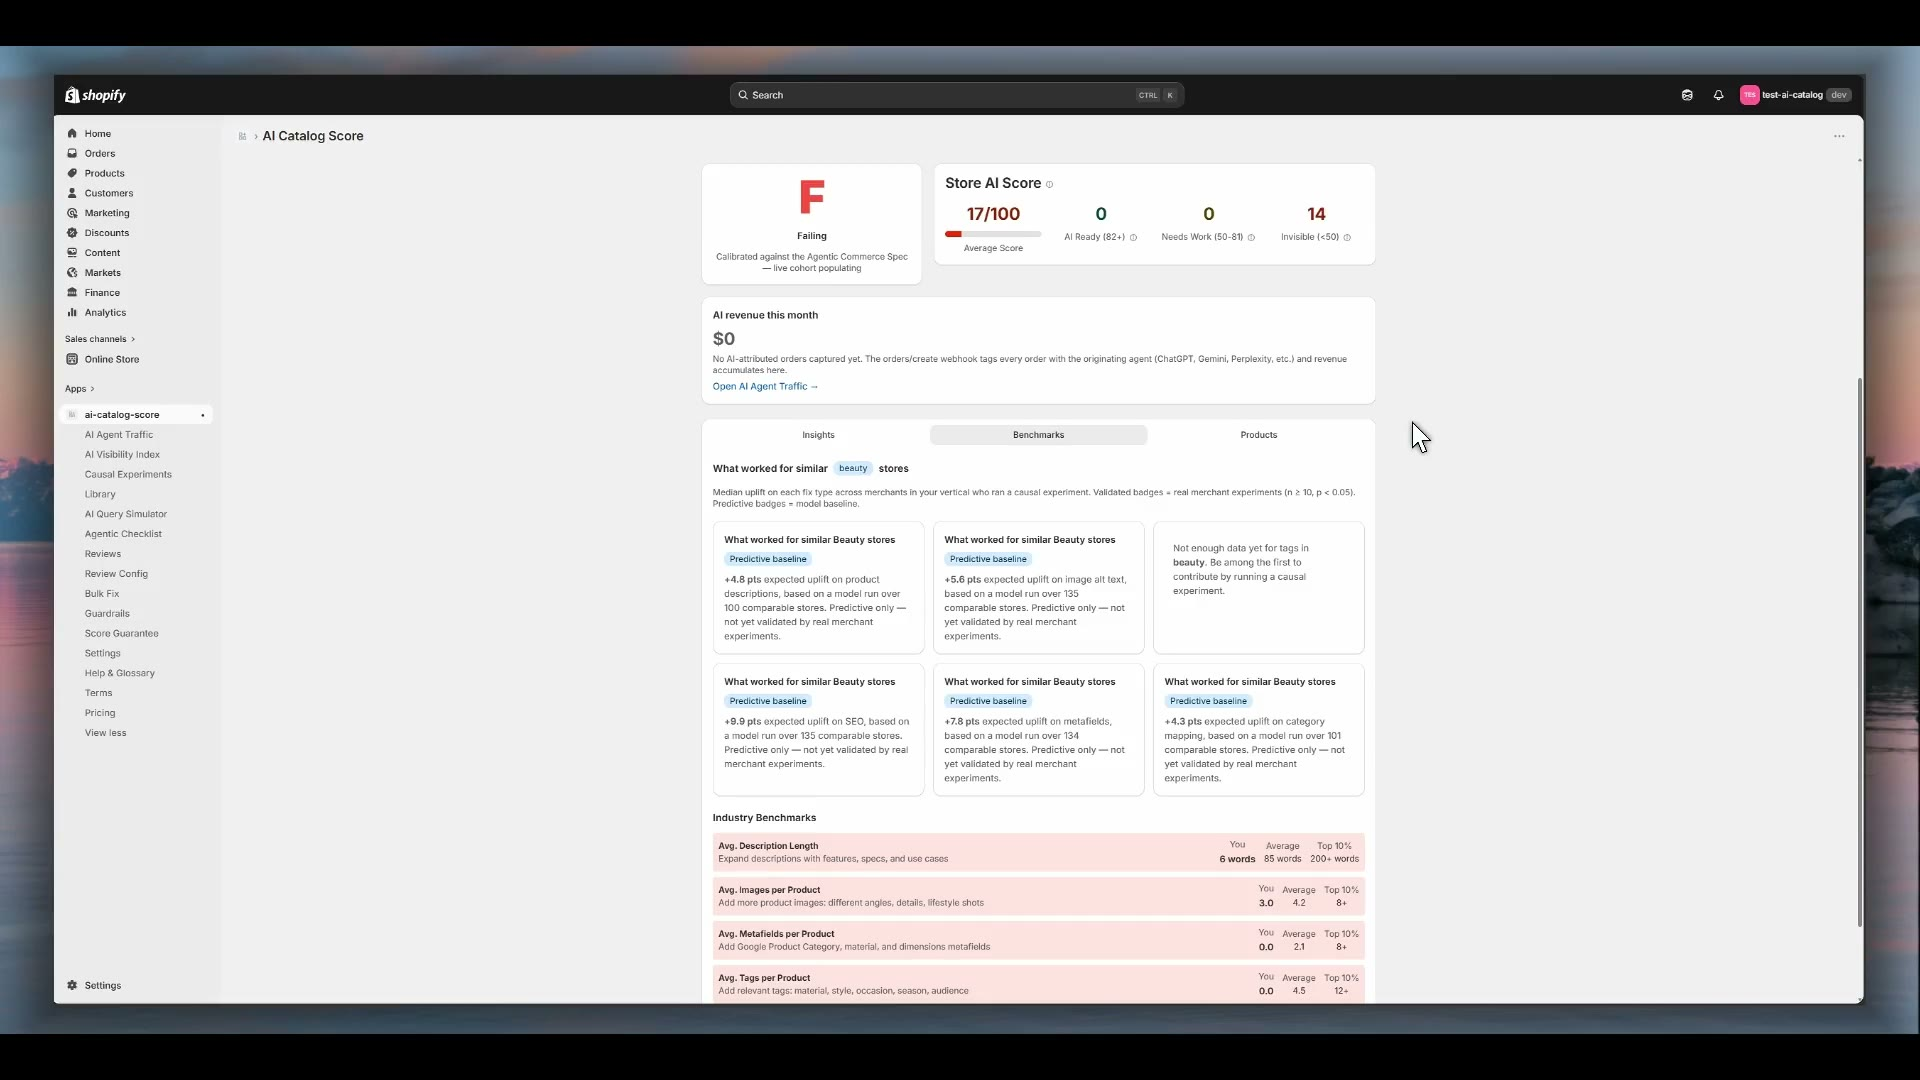
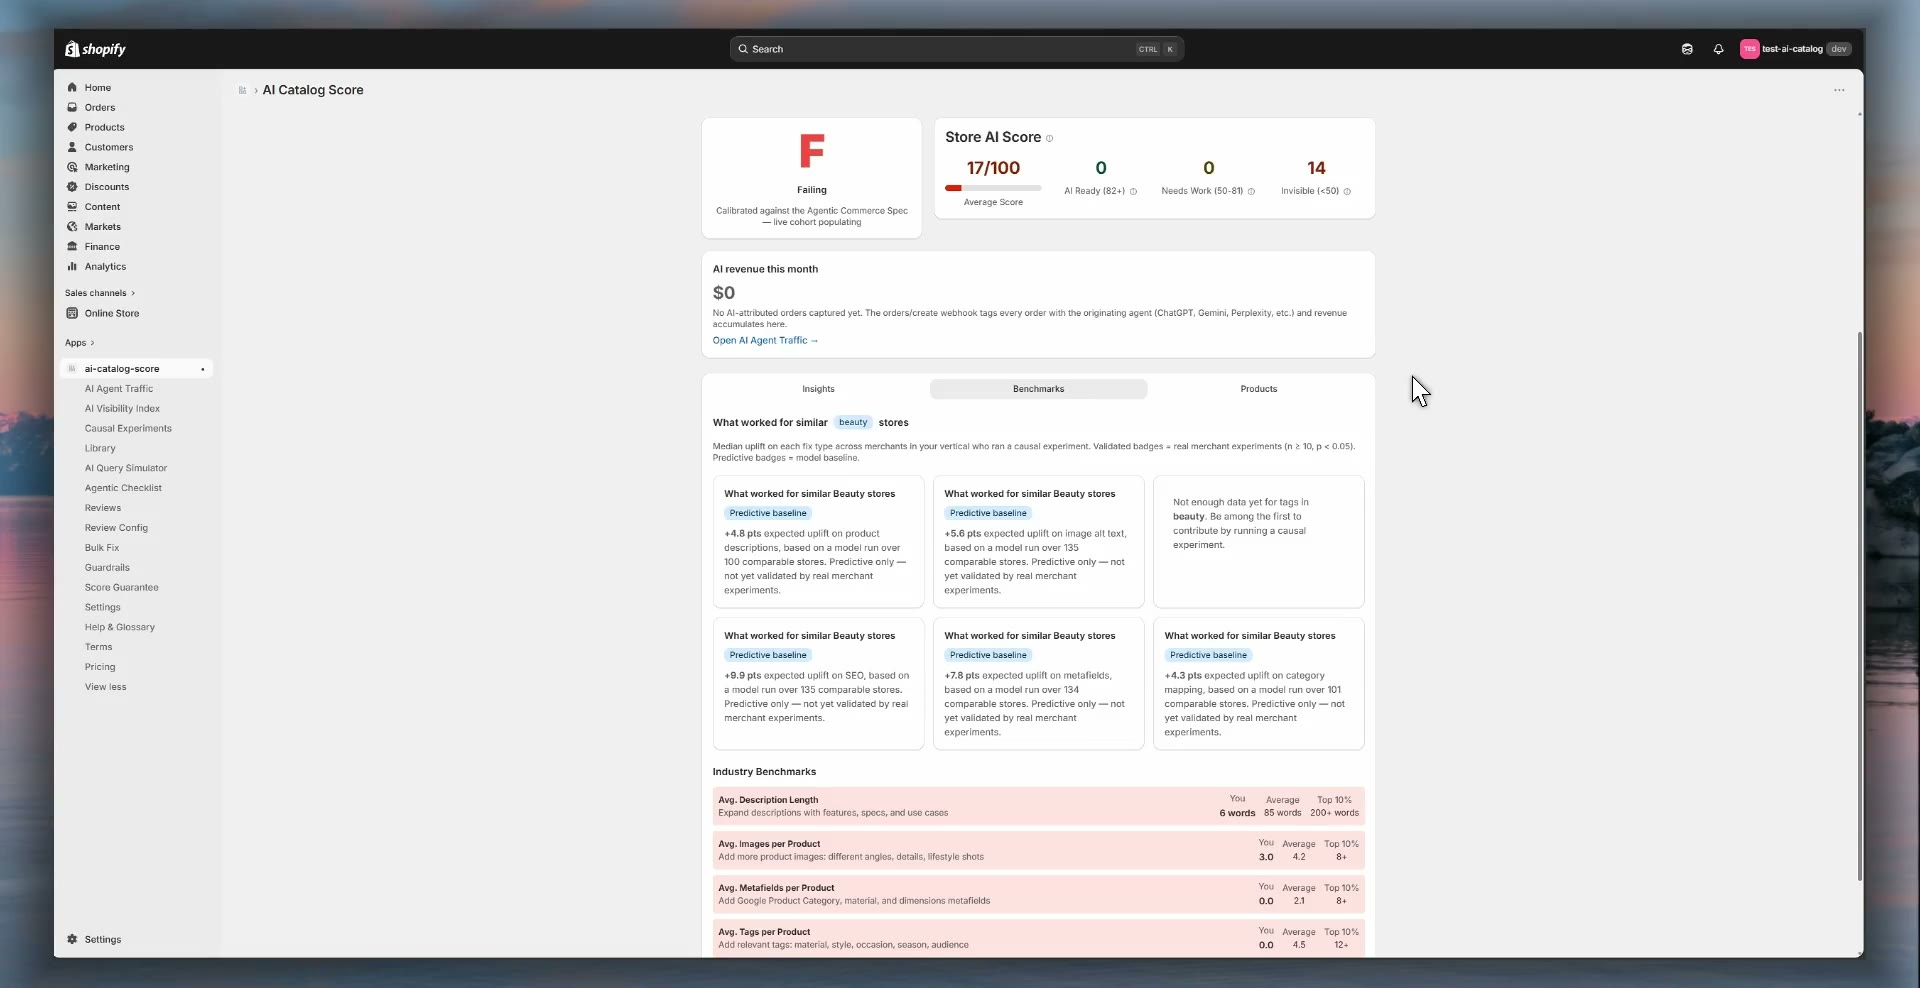
fix(hero v8.2): crop video black bands + 2.4× richer confetti
Two issues from the post-deploy review:

1. **Black band at top of the video frame** — the Cap recording had
   46px black letterbox bars top and bottom (Shopify Admin's wider
   layout vs Cap's capture aspect). Re-cropped via ffmpeg
   `crop=1920:988:0:46` → clean 1920×988 video (~1.94:1). CSS
   aspect-ratio updated from 16/9 to 1920/988 so the frame stays
   flush with the chrome bar and bottom edge.

2. **Confetti not festive enough** — the v8 implementation only had
   15 particles in a single wave, fixed sizes, straight-down motion.
   Replaced with 36 particles arranged in 3 staggered waves
   (0-0.4s, 0.4-0.8s, 0.8-1.4s):
   - Sizes vary 7-12px wide × 11-18px tall for depth
   - Each particle has its own horizontal drift (-30 to +30px) so
     they fan out instead of falling in straight columns
   - Per-particle rotation amount (-900 to +900°) for tumbling feel
   - Duration jitter 2.4-3.0s + delay jitter 0-1.2s for natural pacing
   - Easing tightened to (.32,0,.28,1) for slightly more inertial fall
   - Fall distance bumped 420→760px so particles clear the card

Visual: bright, messy, multi-wave celebration that lasts most of the
4.8s Scene C window instead of dumping all at once in the first second.

diff --git a/index.html b/index.html
@@ -2485,7 +2485,10 @@ section{ position: relative; }
   display: block;
   width: 100%;
   height: auto;
-  aspect-ratio: 16/9;
+  /* Cropped video is 1920×988 (~1.943:1) — the Cap recording's letterbox
+     bars were removed via ffmpeg crop=1920:988:0:46. Aspect-ratio matches
+     so the frame stays flush against the chrome bar and the bottom. */
+  aspect-ratio: 1920 / 988;
   object-fit: cover;
   background: #fff;
 }
@@ -2500,22 +2503,26 @@ section{ position: relative; }
   border-radius: 20px;
   overflow: hidden;
 }
-.hsc-confetti{ position: absolute; inset: 0; pointer-events: none; }
+.hsc-confetti{ position: absolute; inset: 0; pointer-events: none; overflow: hidden; }
 .hsc-confetti span{
   position: absolute;
-  left: var(--x); top: -20px;
-  width: 8px; height: 14px; border-radius: 2px;
+  left: var(--x); top: -30px;
+  width: var(--w, 9px);
+  height: var(--h, 14px);
+  border-radius: 2px;
   background: var(--c, var(--brand));
   opacity: 0;
+  box-shadow: 0 1px 0 rgba(0,0,0,.06);
+  will-change: transform, opacity;
 }
 .hero-stage[data-scene="c"] .hsc-confetti span{
-  animation: hscFall 2.6s cubic-bezier(.4,0,.4,1) var(--d, 0s) forwards;
+  animation: hscFall var(--dur, 2.6s) cubic-bezier(.32,0,.28,1) var(--d, 0s) forwards;
 }
 @keyframes hscFall{
-  0%   { opacity: 0; transform: translateY(0) rotate(0); }
-  10%  { opacity: 1; }
-  90%  { opacity: 1; }
-  100% { opacity: 0; transform: translateY(420px) rotate(540deg); }
+  0%   { opacity: 0; transform: translate(0, 0) rotate(0); }
+  8%   { opacity: 1; }
+  92%  { opacity: 1; }
+  100% { opacity: 0; transform: translate(var(--xd, 0px), 760px) rotate(var(--r, 540deg)); }
 }
 .hsc-card{
   position: relative;
@@ -6660,23 +6667,51 @@ section + .cta-section{ padding-top: 64px; }
 
         <!-- ===== Scene C — Revenue celebration ===== -->
         <section class="hstage hstage-c" data-scene="c" aria-label="Step 3 — incremental revenue">
-          <!-- Confetti rain -->
+          <!-- Confetti rain — 36 particles in 3 staggered waves with
+               varied sizes, colours, horizontal drift + rotation.
+               --x = launch x%, --d = delay, --c = colour,
+               --xd = horizontal drift (px) for swing, --r = total rotation,
+               --w/--h = size variant, --dur = fall duration. -->
           <div class="hsc-confetti" aria-hidden="true">
-            <span style="--x:6%;  --d:.0s;  --c:#00d084"></span>
-            <span style="--x:16%; --d:.18s; --c:#f59e0b"></span>
-            <span style="--x:26%; --d:.32s; --c:#00a86a"></span>
-            <span style="--x:36%; --d:.10s; --c:#c63d2f"></span>
-            <span style="--x:46%; --d:.45s; --c:#00d084"></span>
-            <span style="--x:56%; --d:.22s; --c:#f59e0b"></span>
-            <span style="--x:66%; --d:.36s; --c:#00d084"></span>
-            <span style="--x:76%; --d:.08s; --c:#00a86a"></span>
-            <span style="--x:86%; --d:.28s; --c:#f59e0b"></span>
-            <span style="--x:94%; --d:.50s; --c:#00d084"></span>
-            <span style="--x:11%; --d:.55s; --c:#00d084"></span>
-            <span style="--x:31%; --d:.65s; --c:#f59e0b"></span>
-            <span style="--x:51%; --d:.75s; --c:#00a86a"></span>
-            <span style="--x:71%; --d:.85s; --c:#00d084"></span>
-            <span style="--x:91%; --d:.95s; --c:#c63d2f"></span>
+            <!-- Wave 1 (0-0.4s) — wide spread, mixed sizes -->
+            <span style="--x:4%;  --d:.00s; --c:#00d084; --xd:18px;  --r:720deg;  --w:9px;  --h:14px; --dur:2.6s"></span>
+            <span style="--x:12%; --d:.08s; --c:#f59e0b; --xd:-22px; --r:-540deg; --w:10px; --h:16px; --dur:2.8s"></span>
+            <span style="--x:20%; --d:.18s; --c:#00a86a; --xd:14px;  --r:900deg;  --w:8px;  --h:12px; --dur:2.4s"></span>
+            <span style="--x:28%; --d:.04s; --c:#c63d2f; --xd:-30px; --r:-720deg; --w:12px; --h:18px; --dur:3.0s"></span>
+            <span style="--x:36%; --d:.22s; --c:#00d084; --xd:26px;  --r:540deg;  --w:9px;  --h:14px; --dur:2.6s"></span>
+            <span style="--x:44%; --d:.12s; --c:#f59e0b; --xd:-18px; --r:-900deg; --w:11px; --h:16px; --dur:2.9s"></span>
+            <span style="--x:52%; --d:.28s; --c:#00d084; --xd:22px;  --r:720deg;  --w:8px;  --h:12px; --dur:2.5s"></span>
+            <span style="--x:60%; --d:.06s; --c:#00a86a; --xd:-26px; --r:-540deg; --w:10px; --h:16px; --dur:2.7s"></span>
+            <span style="--x:68%; --d:.20s; --c:#f59e0b; --xd:16px;  --r:900deg;  --w:9px;  --h:14px; --dur:2.6s"></span>
+            <span style="--x:76%; --d:.10s; --c:#00d084; --xd:-24px; --r:-720deg; --w:11px; --h:17px; --dur:2.8s"></span>
+            <span style="--x:84%; --d:.24s; --c:#c63d2f; --xd:20px;  --r:540deg;  --w:8px;  --h:13px; --dur:2.5s"></span>
+            <span style="--x:92%; --d:.02s; --c:#00d084; --xd:-30px; --r:-900deg; --w:10px; --h:15px; --dur:2.9s"></span>
+            <!-- Wave 2 (0.4-0.8s) — second burst -->
+            <span style="--x:8%;  --d:.42s; --c:#f59e0b; --xd:24px;  --r:720deg;  --w:9px;  --h:14px; --dur:2.7s"></span>
+            <span style="--x:18%; --d:.50s; --c:#00a86a; --xd:-20px; --r:-540deg; --w:11px; --h:17px; --dur:2.8s"></span>
+            <span style="--x:26%; --d:.46s; --c:#00d084; --xd:28px;  --r:900deg;  --w:8px;  --h:12px; --dur:2.5s"></span>
+            <span style="--x:34%; --d:.58s; --c:#c63d2f; --xd:-16px; --r:-720deg; --w:10px; --h:16px; --dur:2.6s"></span>
+            <span style="--x:42%; --d:.52s; --c:#f59e0b; --xd:22px;  --r:540deg;  --w:9px;  --h:14px; --dur:2.7s"></span>
+            <span style="--x:50%; --d:.64s; --c:#00d084; --xd:-24px; --r:-900deg; --w:12px; --h:18px; --dur:3.0s"></span>
+            <span style="--x:58%; --d:.48s; --c:#00a86a; --xd:18px;  --r:720deg;  --w:8px;  --h:13px; --dur:2.5s"></span>
+            <span style="--x:66%; --d:.60s; --c:#f59e0b; --xd:-26px; --r:-540deg; --w:11px; --h:16px; --dur:2.9s"></span>
+            <span style="--x:74%; --d:.56s; --c:#00d084; --xd:20px;  --r:900deg;  --w:9px;  --h:14px; --dur:2.7s"></span>
+            <span style="--x:82%; --d:.68s; --c:#c63d2f; --xd:-18px; --r:-720deg; --w:10px; --h:15px; --dur:2.6s"></span>
+            <span style="--x:90%; --d:.44s; --c:#00d084; --xd:30px;  --r:540deg;  --w:8px;  --h:12px; --dur:2.5s"></span>
+            <span style="--x:96%; --d:.62s; --c:#f59e0b; --xd:-22px; --r:-900deg; --w:11px; --h:17px; --dur:2.8s"></span>
+            <!-- Wave 3 (0.8-1.4s) — final burst, smaller particles -->
+            <span style="--x:6%;  --d:.84s; --c:#00d084; --xd:14px;  --r:720deg;  --w:7px;  --h:11px; --dur:2.4s"></span>
+            <span style="--x:16%; --d:.96s; --c:#00a86a; --xd:-18px; --r:-540deg; --w:8px;  --h:12px; --dur:2.5s"></span>
+            <span style="--x:24%; --d:.88s; --c:#f59e0b; --xd:22px;  --r:900deg;  --w:7px;  --h:11px; --dur:2.4s"></span>
+            <span style="--x:32%; --d:1.0s; --c:#00d084; --xd:-16px; --r:-720deg; --w:9px;  --h:13px; --dur:2.6s"></span>
+            <span style="--x:40%; --d:.92s; --c:#c63d2f; --xd:18px;  --r:540deg;  --w:8px;  --h:12px; --dur:2.5s"></span>
+            <span style="--x:48%; --d:1.1s; --c:#00d084; --xd:-24px; --r:-900deg; --w:7px;  --h:11px; --dur:2.4s"></span>
+            <span style="--x:56%; --d:.98s; --c:#f59e0b; --xd:20px;  --r:720deg;  --w:9px;  --h:13px; --dur:2.5s"></span>
+            <span style="--x:64%; --d:1.2s; --c:#00a86a; --xd:-22px; --r:-540deg; --w:8px;  --h:12px; --dur:2.6s"></span>
+            <span style="--x:72%; --d:1.0s; --c:#00d084; --xd:16px;  --r:900deg;  --w:7px;  --h:11px; --dur:2.4s"></span>
+            <span style="--x:80%; --d:1.1s; --c:#f59e0b; --xd:-20px; --r:-720deg; --w:9px;  --h:13px; --dur:2.5s"></span>
+            <span style="--x:88%; --d:.86s; --c:#00d084; --xd:24px;  --r:540deg;  --w:8px;  --h:12px; --dur:2.5s"></span>
+            <span style="--x:98%; --d:1.2s; --c:#c63d2f; --xd:-18px; --r:-900deg; --w:7px;  --h:11px; --dur:2.4s"></span>
           </div>
           <div class="hsc-card">
             <div class="hsc-icon"><img src="logo-acs.png" alt="" loading="lazy"/></div>